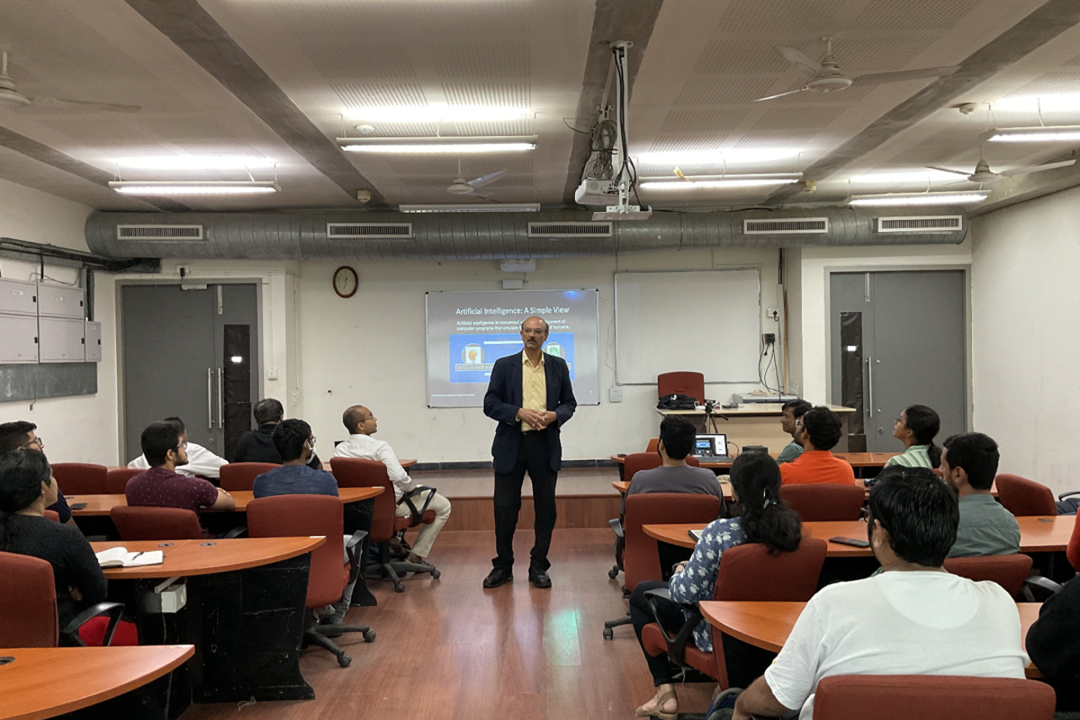
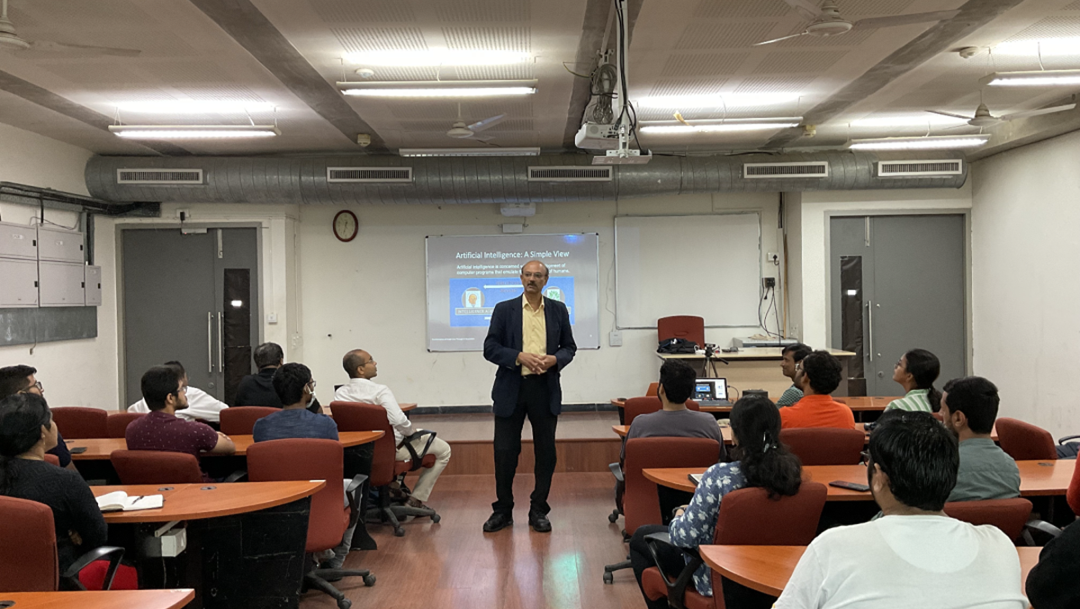
update

diff --git a/index.html b/index.html
@@ -42,49 +42,51 @@ layout: default
           <li data-bs-target="#myCarousel" data-bs-slide-to="5"></li>
           <li data-bs-target="#myCarousel" data-bs-slide-to="6"></li>
           <li data-bs-target="#myCarousel" data-bs-slide-to="7"></li>
+          <li data-bs-target="#myCarousel" data-bs-slide-to="8"></li>
         </ol>
     
         <div class="carousel-inner">
 
           <!-- Carousel 0 -->
           <div class="carousel-item active">
-            <img src="images/carousel/10.JPG"  style="width:100%;">
+            <img src="images/carousel/9.JPG"  style="width:100%;">
           </div>
           
           <!-- Carousel 1 -->
           <div class="carousel-item">
-            <img src="images/carousel/3.png"  style="width:100%;">
+            <img src="images/carousel/7.JPG"  style="width:100%;">
           </div>
 
           <!-- Carousel 2 -->
           <div class="carousel-item">
-            <img src="images/carousel/6.JPG"  style="width:100%;">
+            <img src="images/carousel/8.JPG"  style="width:100%;">
           </div>
           
           <!-- Carousel 3 -->
           <div class="carousel-item">
-            <img src="images/carousel/2.png"  style="width:100%;">
+            <img src="images/carousel/6.JPG"  style="width:100%;">
           </div>
           <!-- Carousel 4 -->
           <div class="carousel-item">
-            <img src="images/carousel/9.JPG"  style="width:100%;">
+            <img src="images/carousel/5.jpg"  style="width:100%;">
           </div>
 
           <!-- Carousel 5 -->
           <div class="carousel-item">
-            <img src="images/carousel/5.JPG" style="width:100%;">
+            <img src="images/carousel/3.png" style="width:100%;">
           </div>
-
-          <!-- Carousel 6 -->
-          <div class="carousel-item">
-            <img src="images/carousel/7.png" style="width:100%;">
-          </div>
-
           <!-- Carousel 7 -->
           <div class="carousel-item">
-            <img src="images/carousel/8.JPG" style="width:100%;">
+            <img src="images/carousel/2.png" style="width:100%;">
           </div>
 
+          <div class="carousel-item">
+            <img src="images/carousel/1.jpg" style="width:100%;">
+          </div>
+
+          <div class="carousel-item">
+            <img src="images/carousel/4.JPG" style="width:100%;">
+          </div>
           
         </div>
     

diff --git a/resize_carousel_images.py b/resize_carousel_images.py
@@ -20,8 +20,11 @@ def read_images(path):
 
 
 def resize_image(image, width, height):
-    # resize image
-    resized_image = image.resize((width, height))
+    # # resize image
+    # resized_image = image.resize((width, height))
+
+    # crop the images from center of the image
+    resized_image = image.crop((0, 0, width, height))
 
     # return resized image
     return resized_image

diff --git a/people.md b/people.md
@@ -63,20 +63,20 @@ permalink: /people/
 | Name| Batch | Current Affiliation |
 | :------------- |:-------------| :-----------|
 | [Sharan Narasimhan](https://www.linkedin.com/in/sharan21/) | Masters student (2020-2022) | Data Engineer at Indeed|
-| [Venkatesh E](https://www.linkedin.com/in/venkateshelangovan/) | Masters student (2020-2022) |  Machine Learning Engineer @ Qualcomm
-| [Arkadipta De](https://www.linkedin.com/in/arkadipta-de/) | Masters student (2020-2022) | Applied AI Researcher @ Fujitsu Research India|
-| [Sagar Jinde ](https://www.linkedin.com/in/sagarjinde/) | Masters student (2019-2021) | Machine Learning Engineer @ Qualcomm|
+| [Venkatesh E](https://www.linkedin.com/in/venkateshelangovan/) | Masters student (2020-2022) |  Machine Learning Engineer at Qualcomm
+| [Arkadipta De](https://www.linkedin.com/in/arkadipta-de/) | Masters student (2020-2022) | Applied AI Researcher at Fujitsu Research India|
+| [Sagar Jinde ](https://www.linkedin.com/in/sagarjinde/) | Masters student (2019-2021) | Machine Learning Engineer at Qualcomm|
 | [Vikram Anand Singh ](https://www.linkedin.com/in/vikramanandsingh/) |Masters student (2018-2020) |Software Developer at BNY Mellon Technology|
-| [Shounak Kundu](https://www.linkedin.com/in/shounak-kundu-53977817/) |Masters student, 3-Year MTech, joint supervision with Dr. Srijith PK (2018-2021) | Machine Learning Engineer @InMobi  |
+| [Shounak Kundu](https://www.linkedin.com/in/shounak-kundu-53977817/) |Masters student, 3-Year MTech, joint supervision with Dr. Srijith PK (2018-2021) | Machine Learning Engineer atInMobi  |
 | [Rishik Ramena ](https://www.linkedin.com/in/rishik-ramena-0a0b52b0/) | Masters student, 3-Year MTech, joint supervision with Dr. Srijith PK (2018 ) | Software Engineer at Microsoft |
-| [Priyambada Ambastha](https://www.linkedin.com/in/priyambada-ambastha-133962119/) | Masters student, 3-Year MTech, joint supervision with Dr. Srijith PK (2018-2021) | <b>Gold Medalist</b> at IITH, Applied Scientist @Amazon  |
-| [Rashmi HTI ](https://www.linkedin.com/in/rashmi-hti-3bb52039/) | Masters student (2016-2018) | Associate @ Goldman Sachs |
-| [Priyanka Choudhary](https://www.linkedin.com/in/priyanka-choudhary-9b0b46111/) | Masters student (2016-2018) | Lecturer @rpsc technical education department |
-| [Shamik Kundu ](https://www.linkedin.com/in/shamikkundu/) | Masters student (2016-2018) |Data Scientist @Rakuten  |
-| [Manjela Toppo ](https://www.linkedin.com/in/manjela-toppo-021342154/) | Masters student(2016-2018) |  
+| [Priyambada Ambastha](https://www.linkedin.com/in/priyambada-ambastha-133962119/) | Masters student, 3-Year MTech, joint supervision with Dr. Srijith PK (2018-2021) | <b>Gold Medalist</b> at IITH, Applied Scientist at Amazon  |
+| [Rashmi HTI ](https://www.linkedin.com/in/rashmi-hti-3bb52039/) | Masters student (2016-2018) | Associate at Goldman Sachs |
+| [Priyanka Choudhary](https://www.linkedin.com/in/priyanka-choudhary-9b0b46111/) | Masters student (2016-2018) | Lecturer at rpsc technical education department |
+| [Shamik Kundu ](https://www.linkedin.com/in/shamikkundu/) | Masters student (2016-2018) |Data Scientist at Rakuten  |
+| [Manjela Toppo ](https://www.linkedin.com/in/manjela-toppo-021342154/) | Masters student(2016-2018) | - |
 | [Shashank Singh](https://www.linkedin.com/in/shashank-singh-a527bb112/) | Masters Student (2015-2017) |Software Developer at PayPal|
-| [Pradyumna Deshpande ](https://www.linkedin.com/in/pradyumna-deshpande-72a51455/) | Masters Student (2015-2017) | Platform Engineer@ PayPay Corporation Tokyo, Japan |
-| [Swapnil Ashok dewalakar](https://www.linkedin.com/in/swapdewalkar/)| Masters student (2017-2019) | SDE @Fanatics,Inc. |
-| [Vandita Dutt ](https://www.linkedin.com/in/vandita-dutt-840646141/) | Masters student (2020-2022) |
+| [Pradyumna Deshpande ](https://www.linkedin.com/in/pradyumna-deshpande-72a51455/) | Masters Student (2015-2017) | Platform Engineer at PayPay Corporation Tokyo, Japan |
+| [Swapnil Ashok dewalakar](https://www.linkedin.com/in/swapdewalkar/)| Masters student (2017-2019) | SDE at Fanatics,Inc. |
+| [Vandita Dutt ](https://www.linkedin.com/in/vandita-dutt-840646141/) | Masters student (2020-2022) | -|
 
 

diff --git a/publications.md b/publications.md
@@ -69,7 +69,7 @@ permalink: /publication/
   <div class="clear-fix mt-3">
     <div class="col">
        {% if publi.img %}
-        <img src="/publications/images/{{ publi.img }}" class="col-md-6 float-md-end mb-3 ms-md-3 img-fluid" style="float:left;" />
+        <img src="/publications/images/{{ publi.img }}" class="col-md-6 float-md-end mb-3 ms-md-3 img-fluid" style="float:left;width:40%" />
        {% endif %}
     <!-- <div class="col m-2"> -->
       {% if publi.summary %}
